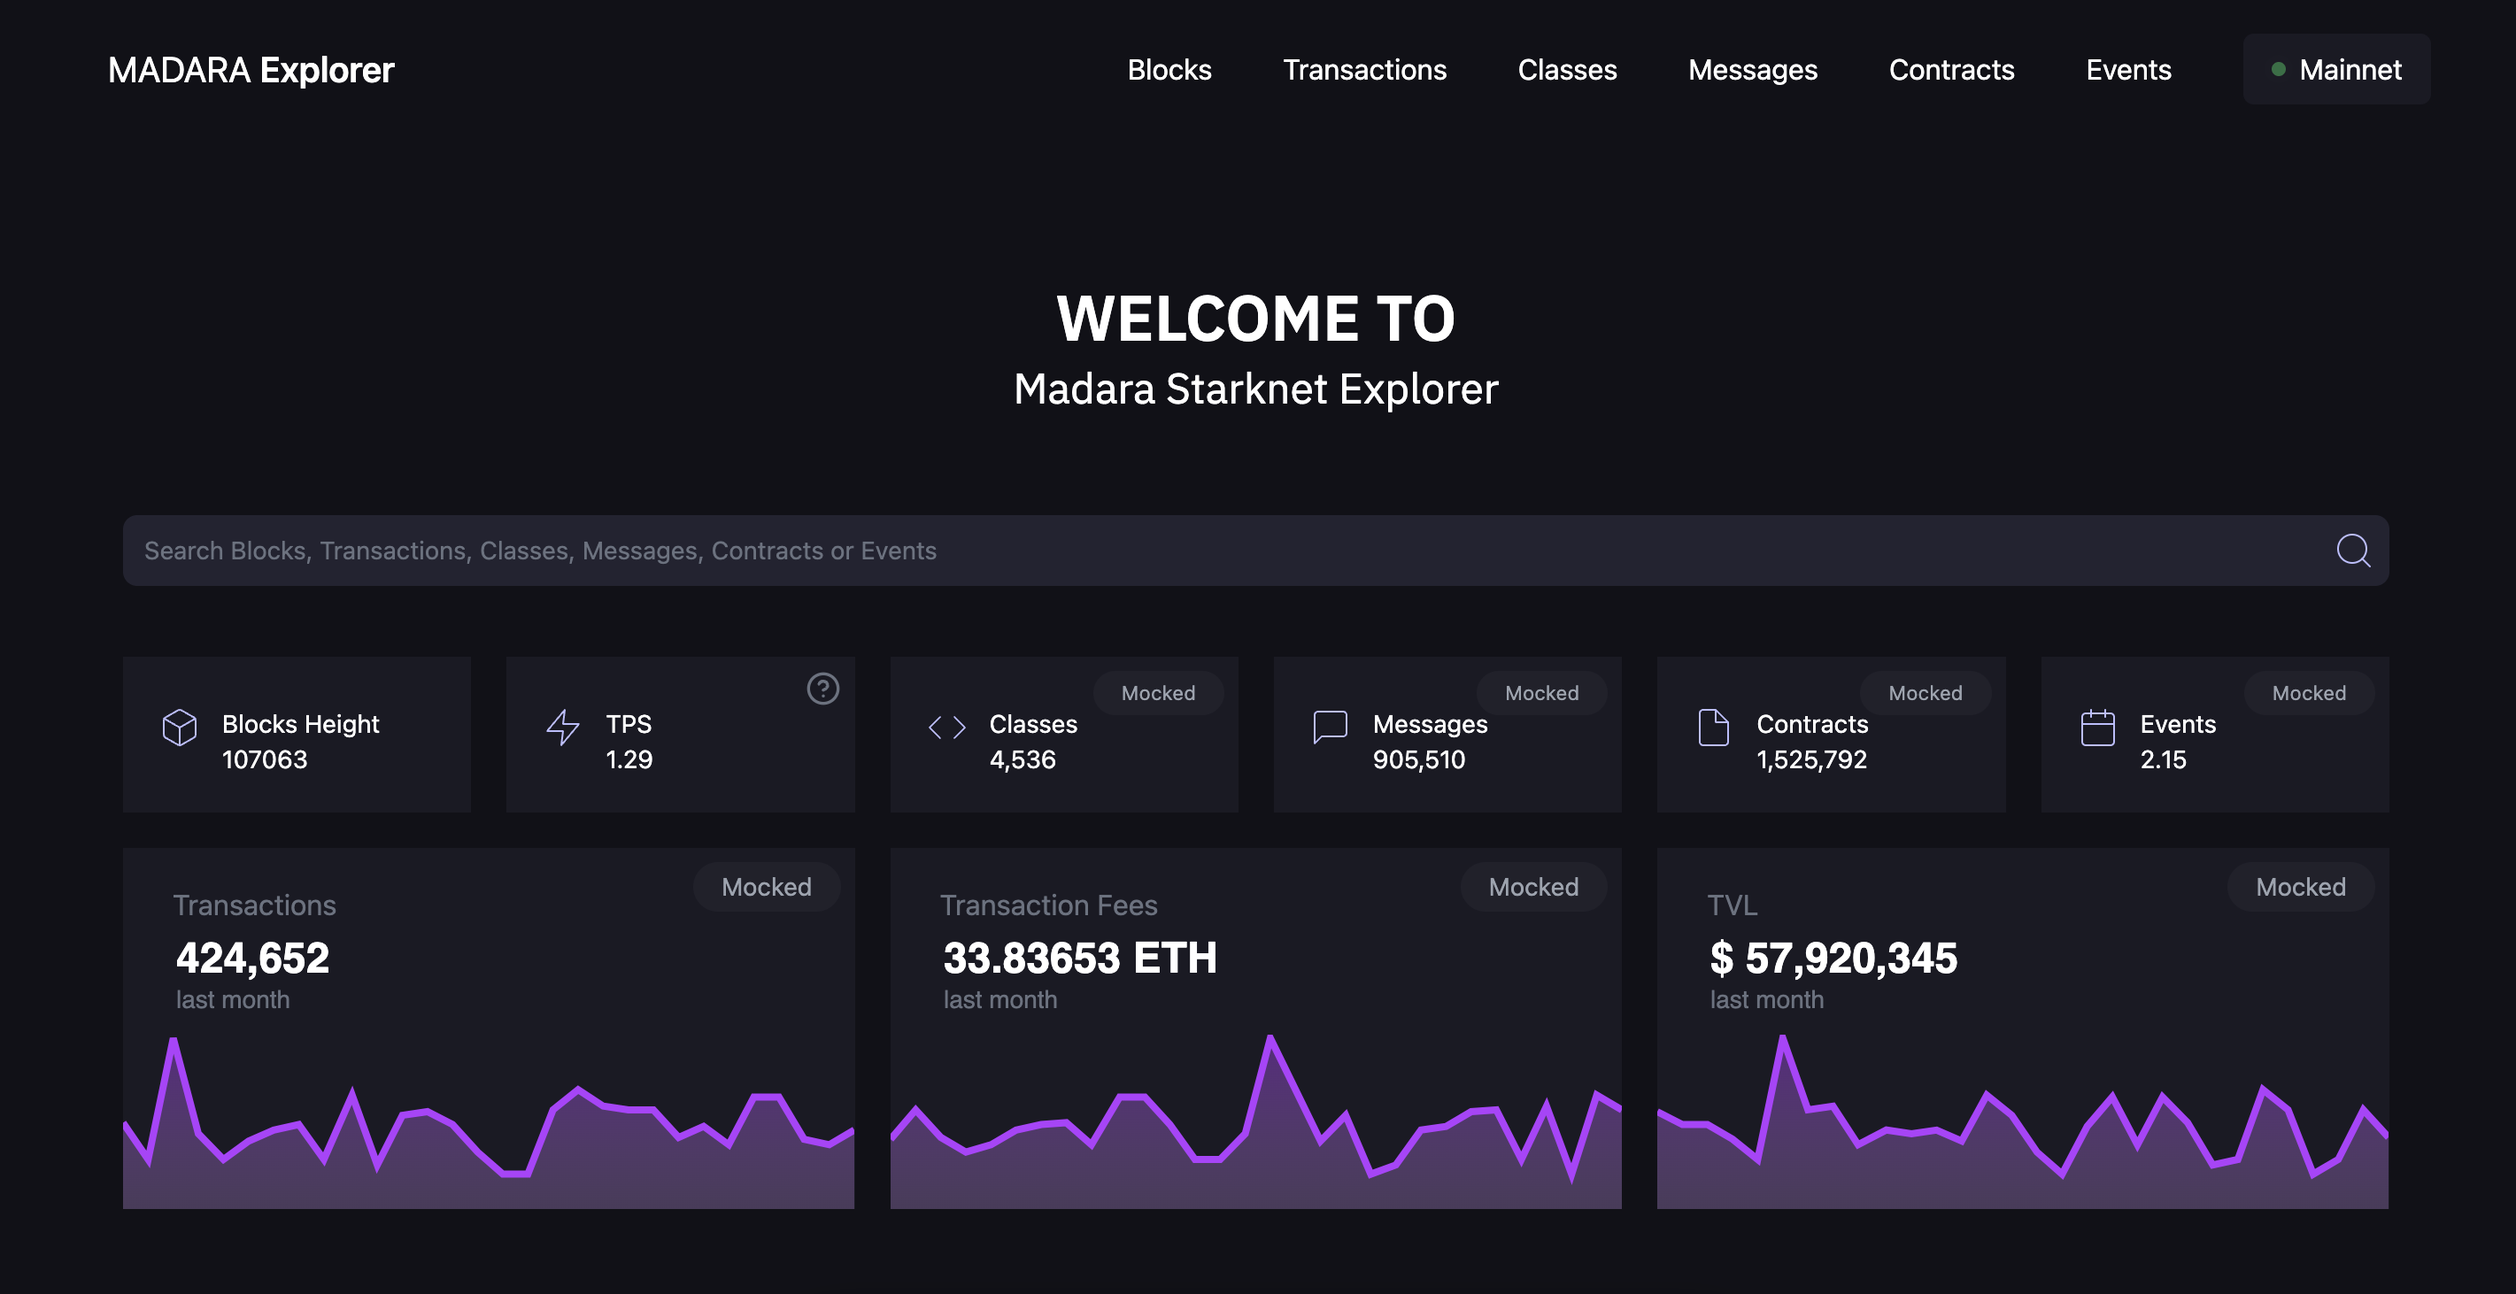
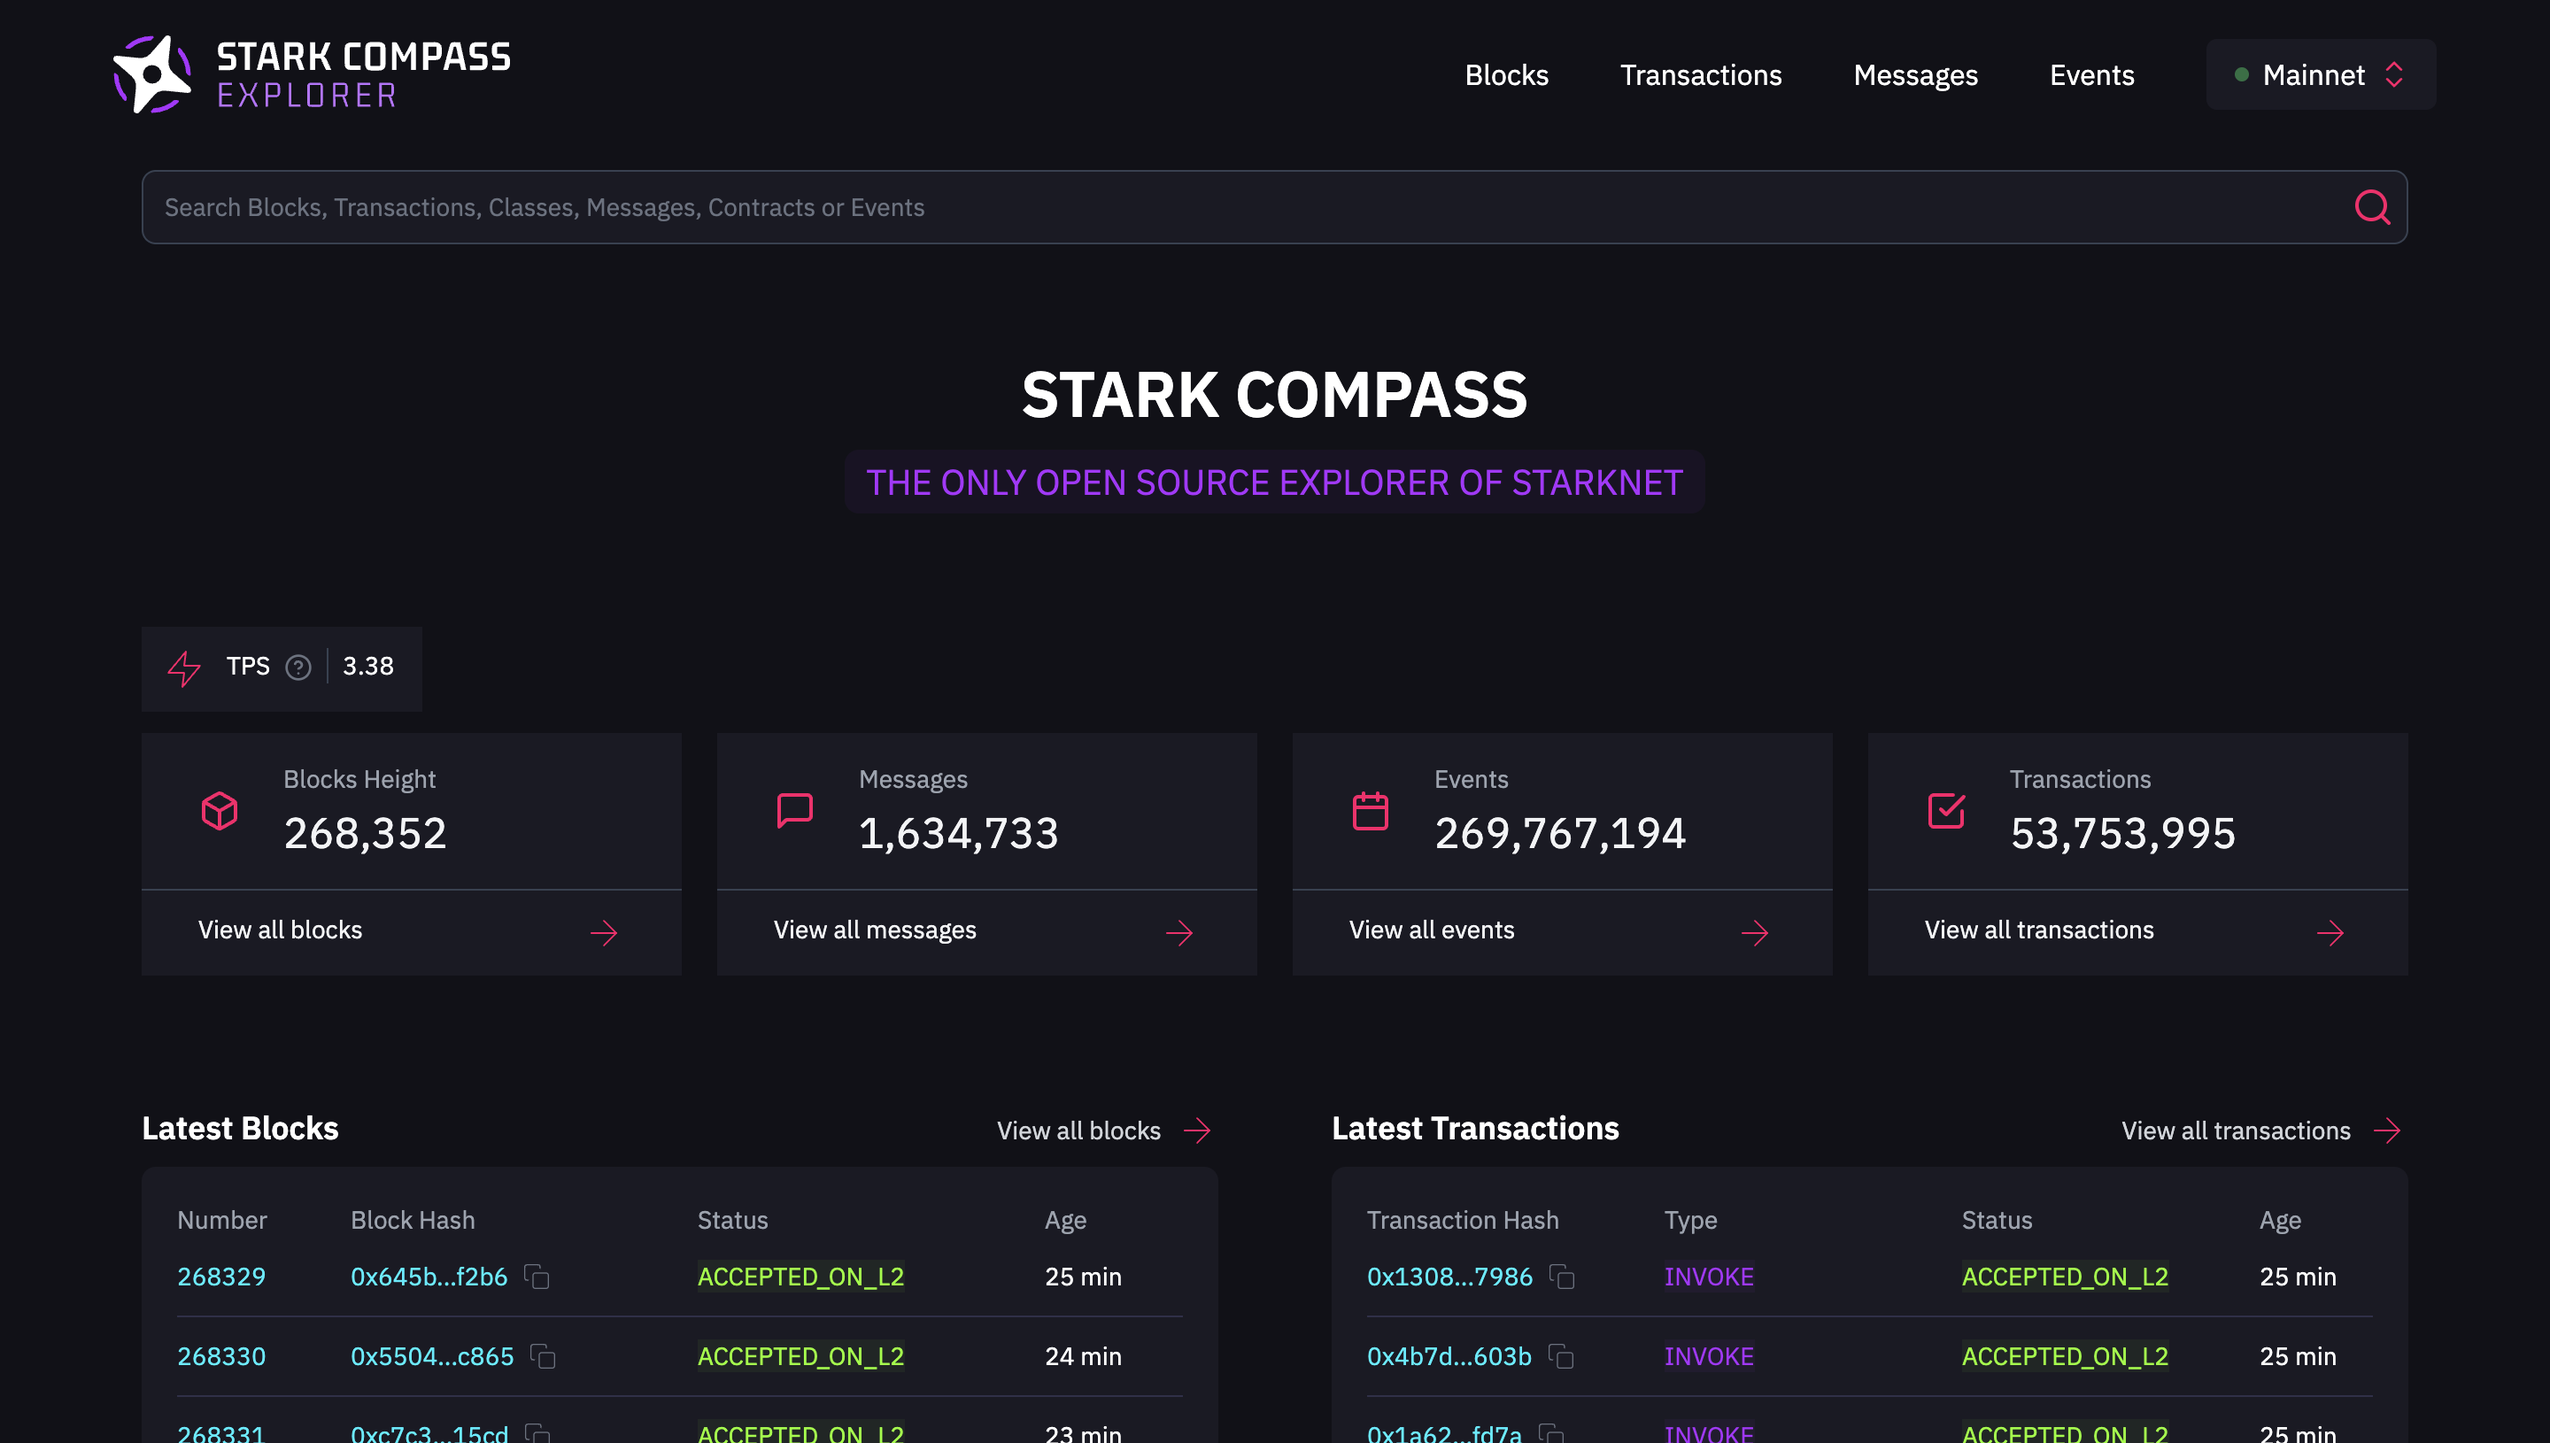
update readme with the new frontend and name

diff --git a/README.md b/README.md
@@ -1,7 +1,7 @@
-# StarknetExplorer
+# StarkCompass
 ![image](./priv/static/images/explorer_preview.png)
 
-- [StarknetExplorer](#starknetexplorer)
+- [StarkCompass](#starkcompass)
   - [Requirements](#requirements)
   - [Local development](#local-development)
     - [Setup](#setup)
@@ -13,7 +13,7 @@
     - [BlockchainFetcher](#blockchainfetcher)
     - [BlockchainUpdater](#blockchainupdater)
     - [WARNING ⚠](#warning-)
-  - [Using Madara Explorer with PostgreSQL](#using-madara-explorer-with-postgresql)
+  - [Using Stark Compass with PostgreSQL](#using-stark-compass-with-postgresql)
 
 ## Requirements
 - SQLite
@@ -142,15 +142,15 @@ There are 3 things to keep in mind here:
    because the State Synchronization System can do a lot of requests per second.
 2. Disk Usage: We're still measuring it, but we expect it to be considerable 
    after running it for a couple of days.
-3. If you are going to sync a large amount of blocks, we *strongly* suggest to use PostgreSQL instead of SQLite. You can check how to swap the DB in [this section](#using-madara-explorer-with-postgresql).
+3. If you are going to sync a large amount of blocks, we *strongly* suggest to use PostgreSQL instead of SQLite. You can check how to swap the DB in [this section](#using-stark-compass-with-postgresql).
 
 The db file will be stored under `/priv/repo`.
 
-## Using Madara Explorer with PostgreSQL
+## Using Stark Compass with PostgreSQL
 
 If you want to handle multiple concurrent connections and a more scalable application, you may consider using PostgreSQL.
 
-Madara Explorer provides support for that, you can set the credentials to the PostgreSQL DB in the `runtime.exs` and set the environment variable `DB_TYPE` to `postgresql`.
+Stark Compass provides support for that, you can set the credentials to the PostgreSQL DB in the `runtime.exs` and set the environment variable `DB_TYPE` to `postgresql`.
 
 ```bash
 export DB_TYPE=postgresql
